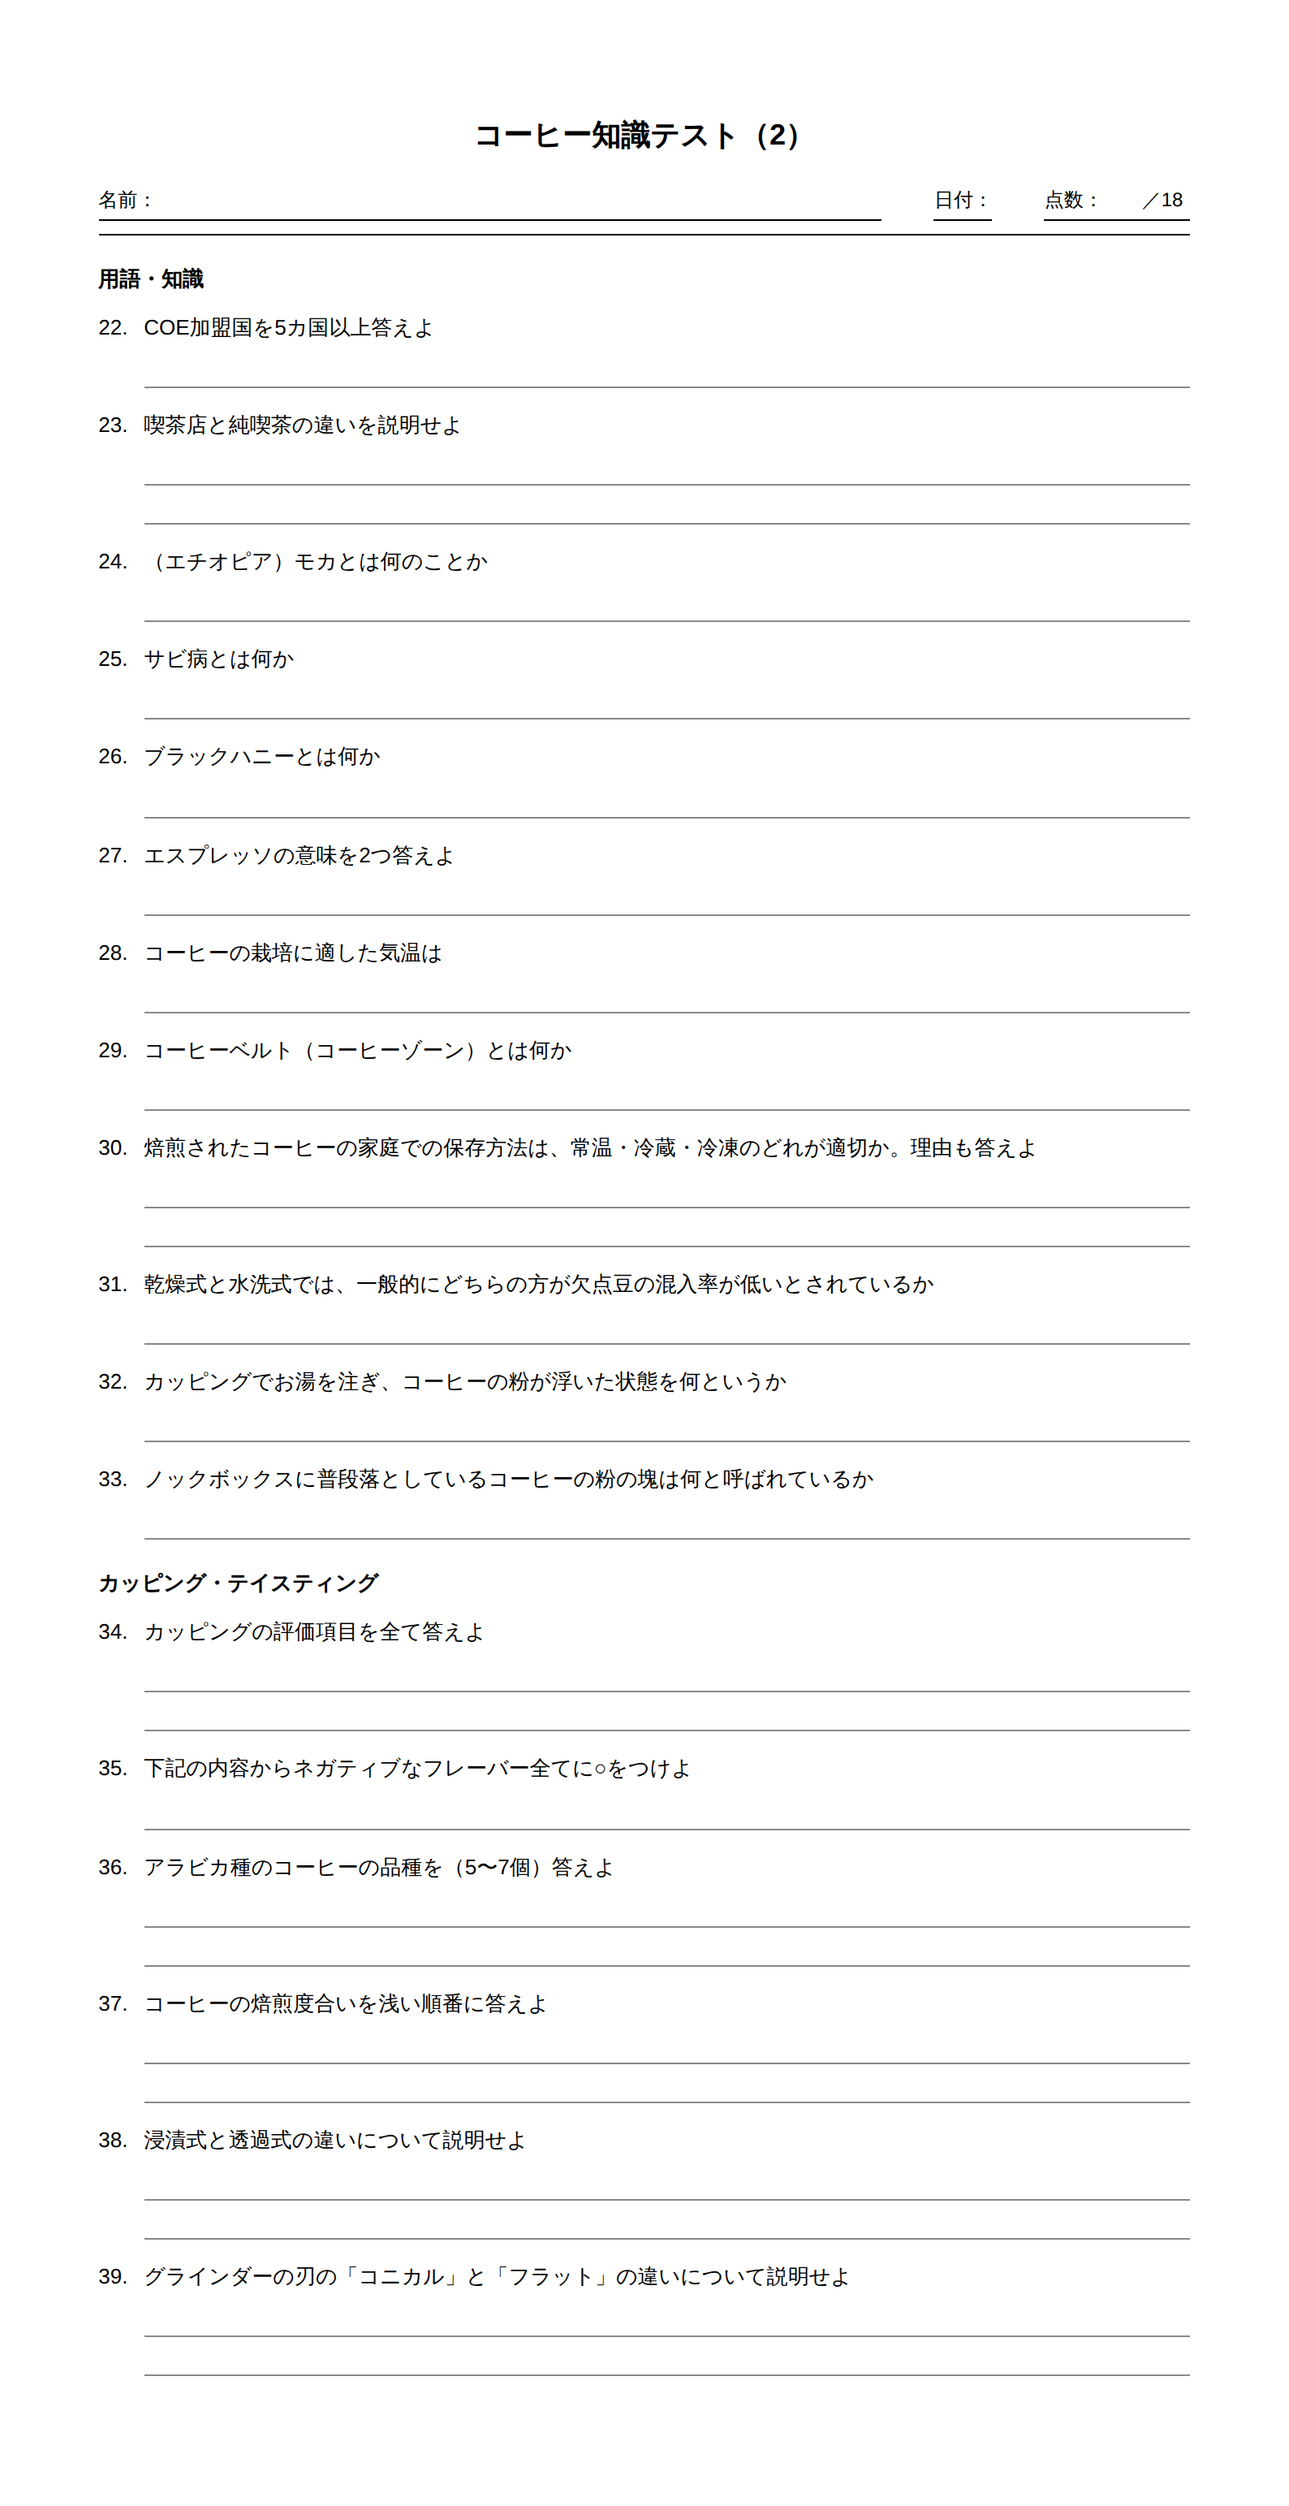
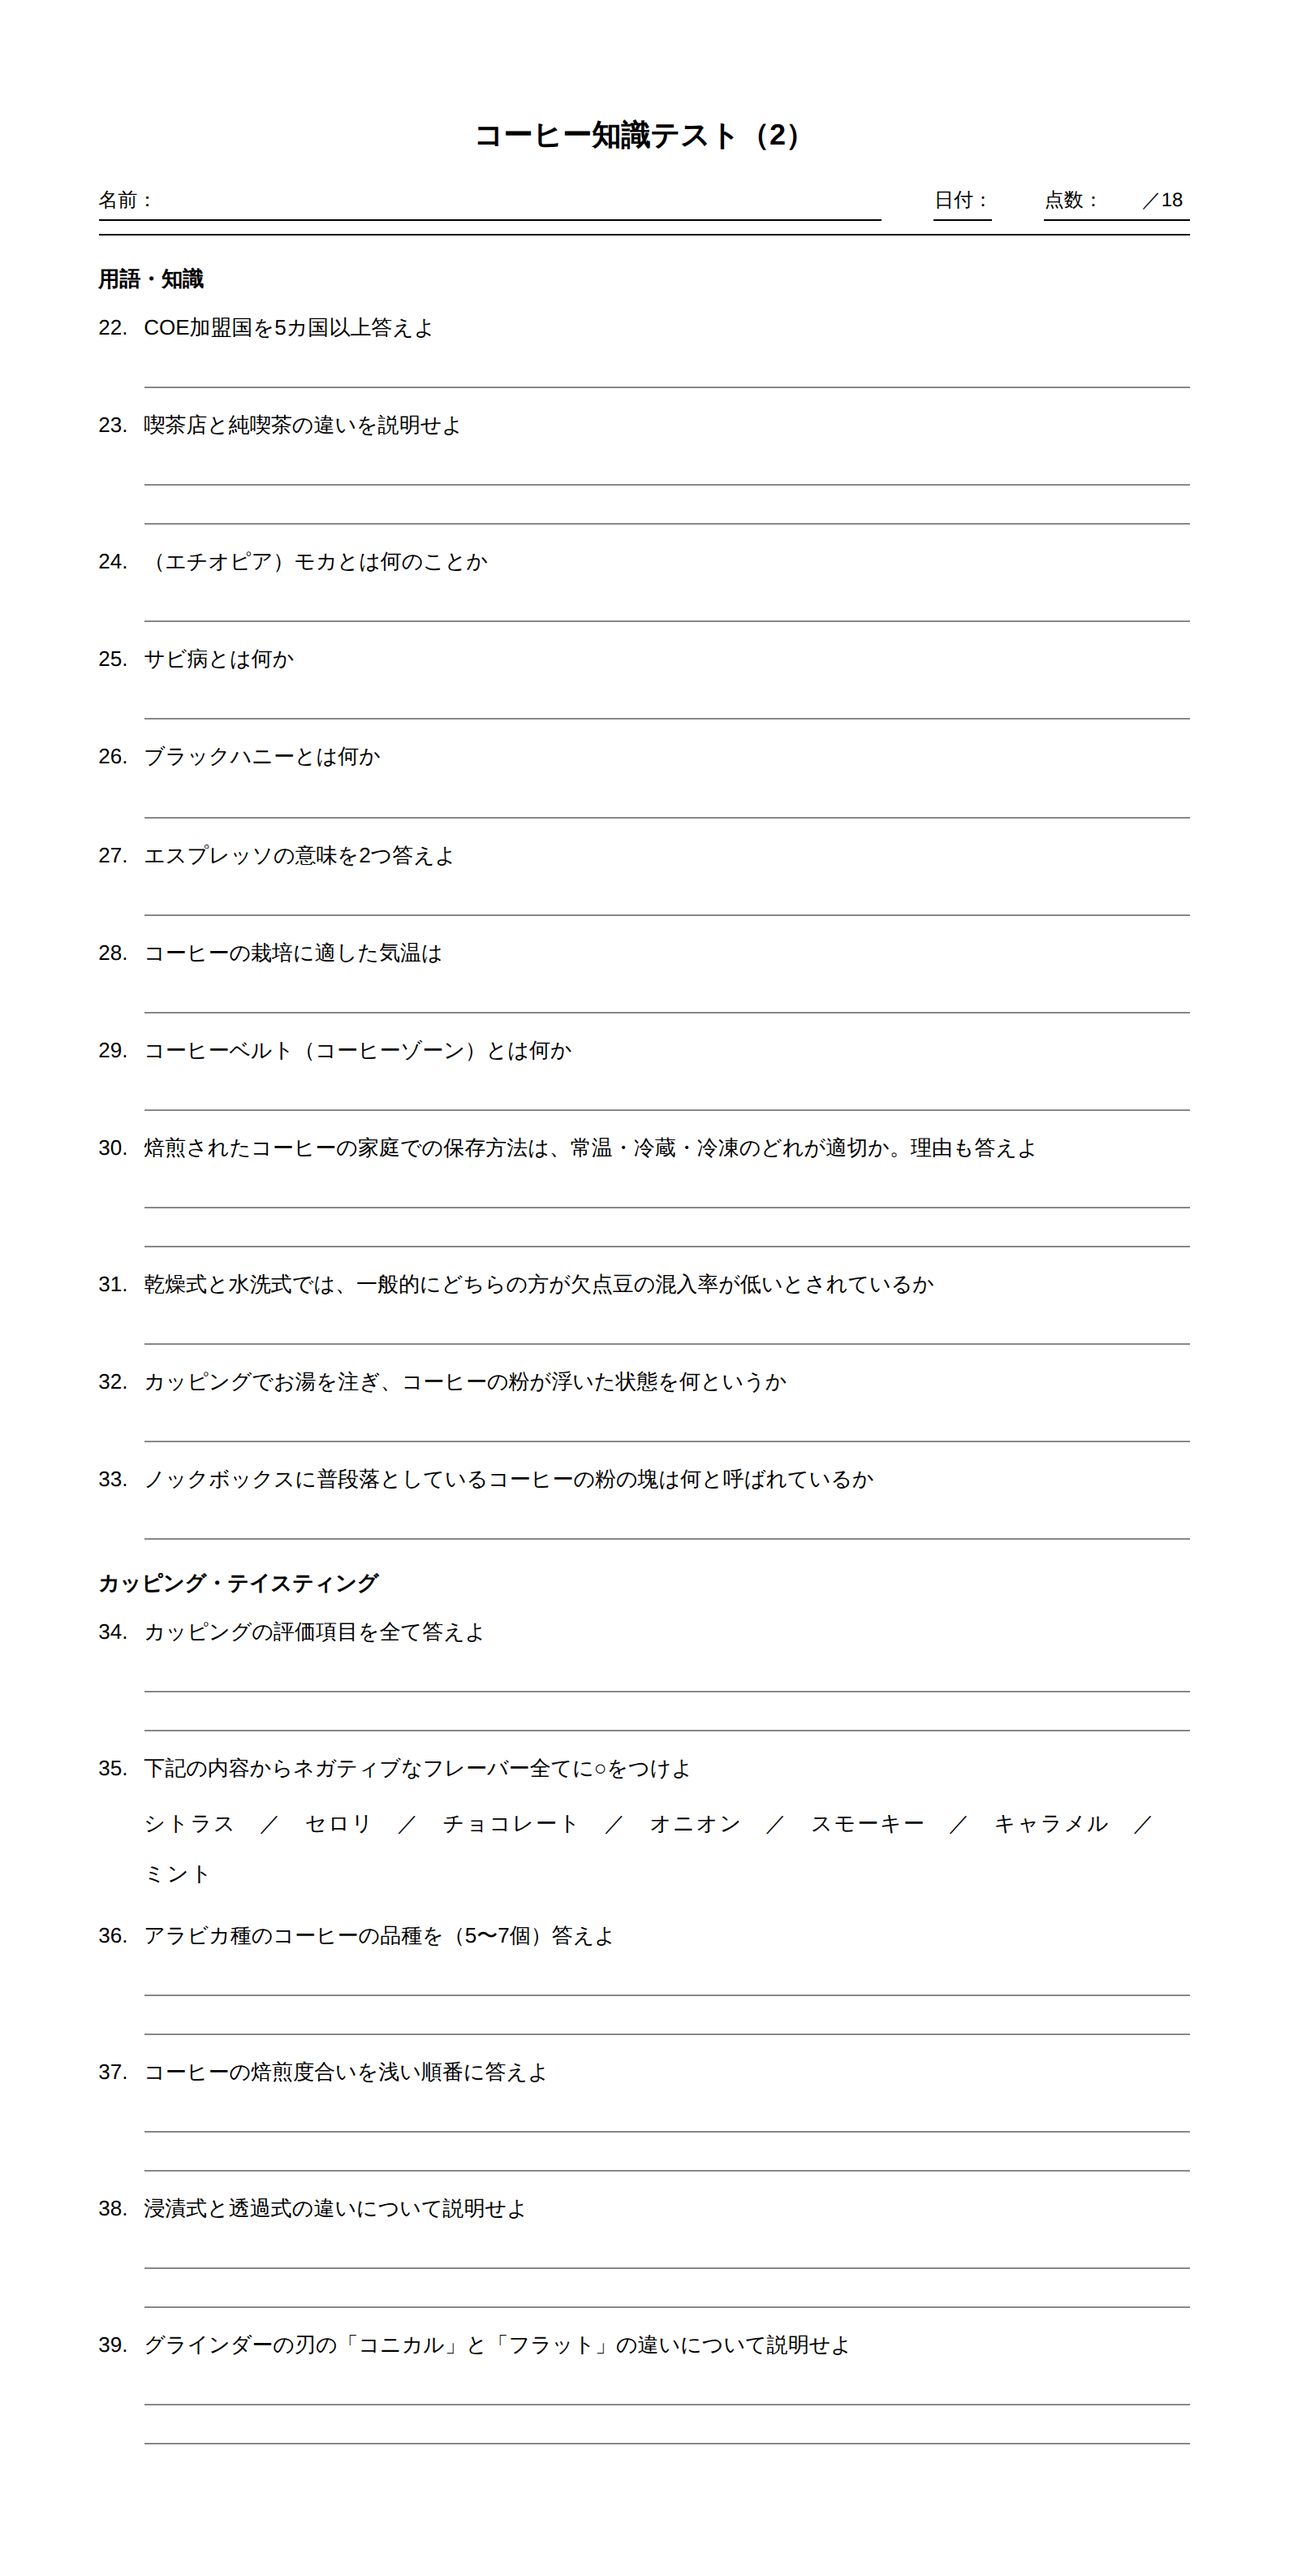
add flavor options to Q35 (negative flavor selection)
Claude-Session: https://claude.ai/code/session_01M4rTEtrM4mgFtfxhKcCfkL

diff --git a/coffee-test-2.html b/coffee-test-2.html
@@ -51,6 +51,7 @@
   .answer { padding-left: 28px; margin-top: 6px; }
   .line { border-bottom: 1px solid #888; height: 20px; }
   .line + .line { margin-top: 4px; }
+  .options { line-height: 2.4; letter-spacing: 1px; }
 
   @media print {
     .sheet { width: auto; min-height: 0; margin: 0; padding: 0; }
@@ -126,7 +127,7 @@
   </div>
   <div class="q">
     <div class="q-text"><span class="num">35.</span><span>下記の内容からネガティブなフレーバー全てに○をつけよ</span></div>
-    <div class="answer"><div class="line"></div></div>
+    <div class="answer"><div class="options">シトラス　／　セロリ　／　チョコレート　／　オニオン　／　スモーキー　／　キャラメル　／　ミント</div></div>
   </div>
   <div class="q">
     <div class="q-text"><span class="num">36.</span><span>アラビカ種のコーヒーの品種を（5〜7個）答えよ</span></div>
